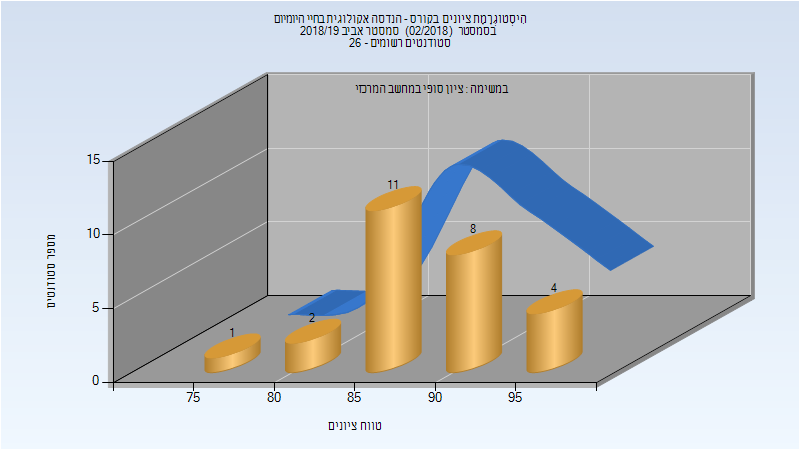
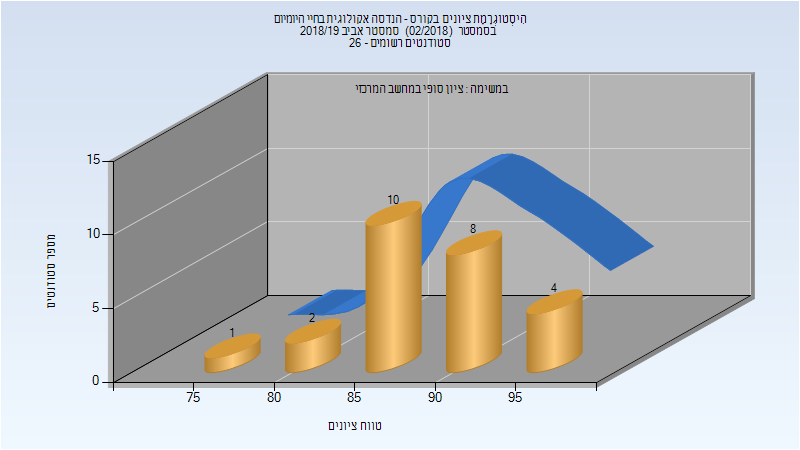
Deploy michael-maltsev/technion-histograms to github.com/michael-maltsev/technion-histograms.git:gh-pages

Changed region(s): [[0.4375, 0.3111, 0.6875, 0.4978], [0.6875, 0.3733, 0.7188, 0.4044], [0.5312, 0.4978, 0.5625, 0.5289]]

diff --git a/054413/index.html b/054413/index.html
@@ -118,6 +118,81 @@
 </tr>
 </tbody>
 </table>
+<h2>אביב 2019</h2>
+<table>
+<thead>
+<tr>
+<th>איש סגל</th>
+<th>תפקיד</th>
+</tr>
+</thead>
+<tbody>
+<tr>
+<td>ביאנקו-פלד חבצלת</td>
+<td>מרצה - אחראי מקצוע</td>
+</tr>
+<tr>
+<td>דלמר קרן</td>
+<td>מרצה</td>
+</tr>
+<tr>
+<td>אליהו שקד</td>
+<td>מרצה</td>
+</tr>
+</tbody>
+</table>
+<h3>מבחן מועד א'</h3>
+<p><img src="201802/Exam_A.png" alt="201802 Exam_A" /></p>
+<table>
+<thead>
+<tr>
+<th>סטודנטים</th>
+<th>עברו/נכשלו</th>
+<th>אחוז עוברים</th>
+<th>ציון מינימלי</th>
+<th>ציון מקסימלי</th>
+<th>ממוצע</th>
+<th>חציון</th>
+</tr>
+</thead>
+<tbody>
+<tr>
+<td>30</td>
+<td>29/1</td>
+<td>97</td>
+<td>51</td>
+<td>100</td>
+<td>86.233</td>
+<td>88</td>
+</tr>
+</tbody>
+</table>
+<h3>סופי מועד א'</h3>
+<p><img src="201802/Final_A.png" alt="201802 Final_A" /></p>
+<table>
+<thead>
+<tr>
+<th>סטודנטים</th>
+<th>עברו/נכשלו</th>
+<th>אחוז עוברים</th>
+<th>ציון מינימלי</th>
+<th>ציון מקסימלי</th>
+<th>ממוצע</th>
+<th>חציון</th>
+</tr>
+</thead>
+<tbody>
+<tr>
+<td>30</td>
+<td>30/0</td>
+<td>100</td>
+<td>60.747</td>
+<td>100</td>
+<td>87.896</td>
+<td>88.791</td>
+</tr>
+</tbody>
+</table>
 <h2>אביב 2020</h2>
 <table>
 <thead>

diff --git a/054376/index.html b/054376/index.html
@@ -52,12 +52,12 @@
 </thead>
 <tbody>
 <tr>
-<td>26</td>
-<td>26/0</td>
+<td>25</td>
+<td>25/0</td>
 <td>100</td>
 <td>75</td>
 <td>95</td>
-<td>88.692</td>
+<td>88.84</td>
 <td>89</td>
 </tr>
 </tbody>

diff --git a/054413/README.md b/054413/README.md
@@ -31,6 +31,30 @@
 | ---- | ---- | ---- | ---- | ---- | ---- | ---- |
 | 52 | 52/0 | 100 | 65 | 100 | 87.385 | 89 |
 
+## אביב 2019
+
+| איש סגל | תפקיד |
+| ---- | ---- |
+| ביאנקו-פלד חבצלת | מרצה - אחראי מקצוע |
+| דלמר קרן | מרצה |
+| אליהו שקד | מרצה |
+
+### מבחן מועד א'
+
+![201802 Exam_A](201802/Exam_A.png)
+
+| סטודנטים | עברו/נכשלו | אחוז עוברים | ציון מינימלי | ציון מקסימלי | ממוצע | חציון |
+| ---- | ---- | ---- | ---- | ---- | ---- | ---- |
+| 30 | 29/1 | 97 | 51 | 100 | 86.233 | 88 |
+
+### סופי מועד א'
+
+![201802 Final_A](201802/Final_A.png)
+
+| סטודנטים | עברו/נכשלו | אחוז עוברים | ציון מינימלי | ציון מקסימלי | ממוצע | חציון |
+| ---- | ---- | ---- | ---- | ---- | ---- | ---- |
+| 30 | 30/0 | 100 | 60.747 | 100 | 87.896 | 88.791 |
+
 ## אביב 2020
 
 | איש סגל | תפקיד |

diff --git a/054376/README.md b/054376/README.md
@@ -12,7 +12,7 @@
 
 | סטודנטים | עברו/נכשלו | אחוז עוברים | ציון מינימלי | ציון מקסימלי | ממוצע | חציון |
 | ---- | ---- | ---- | ---- | ---- | ---- | ---- |
-| 26 | 26/0 | 100 | 75 | 95 | 88.692 | 89 |
+| 25 | 25/0 | 100 | 75 | 95 | 88.84 | 89 |
 
 ## אביב 2020
 
